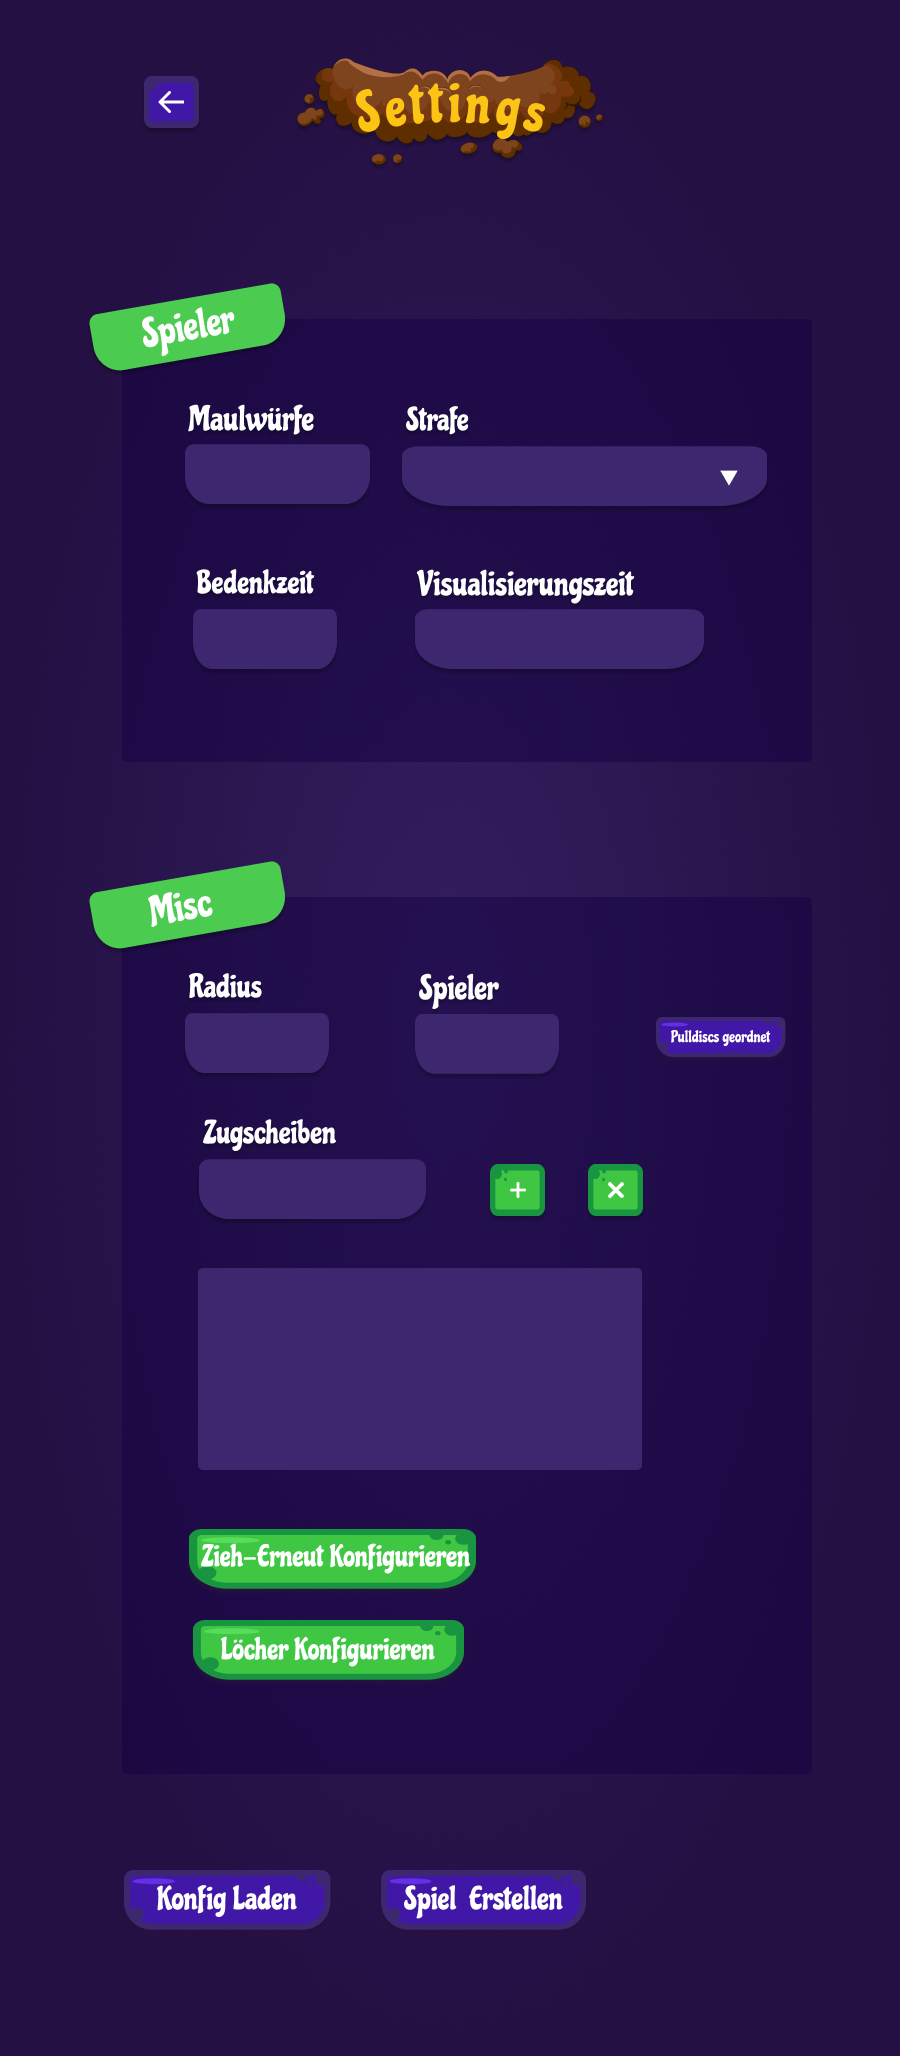
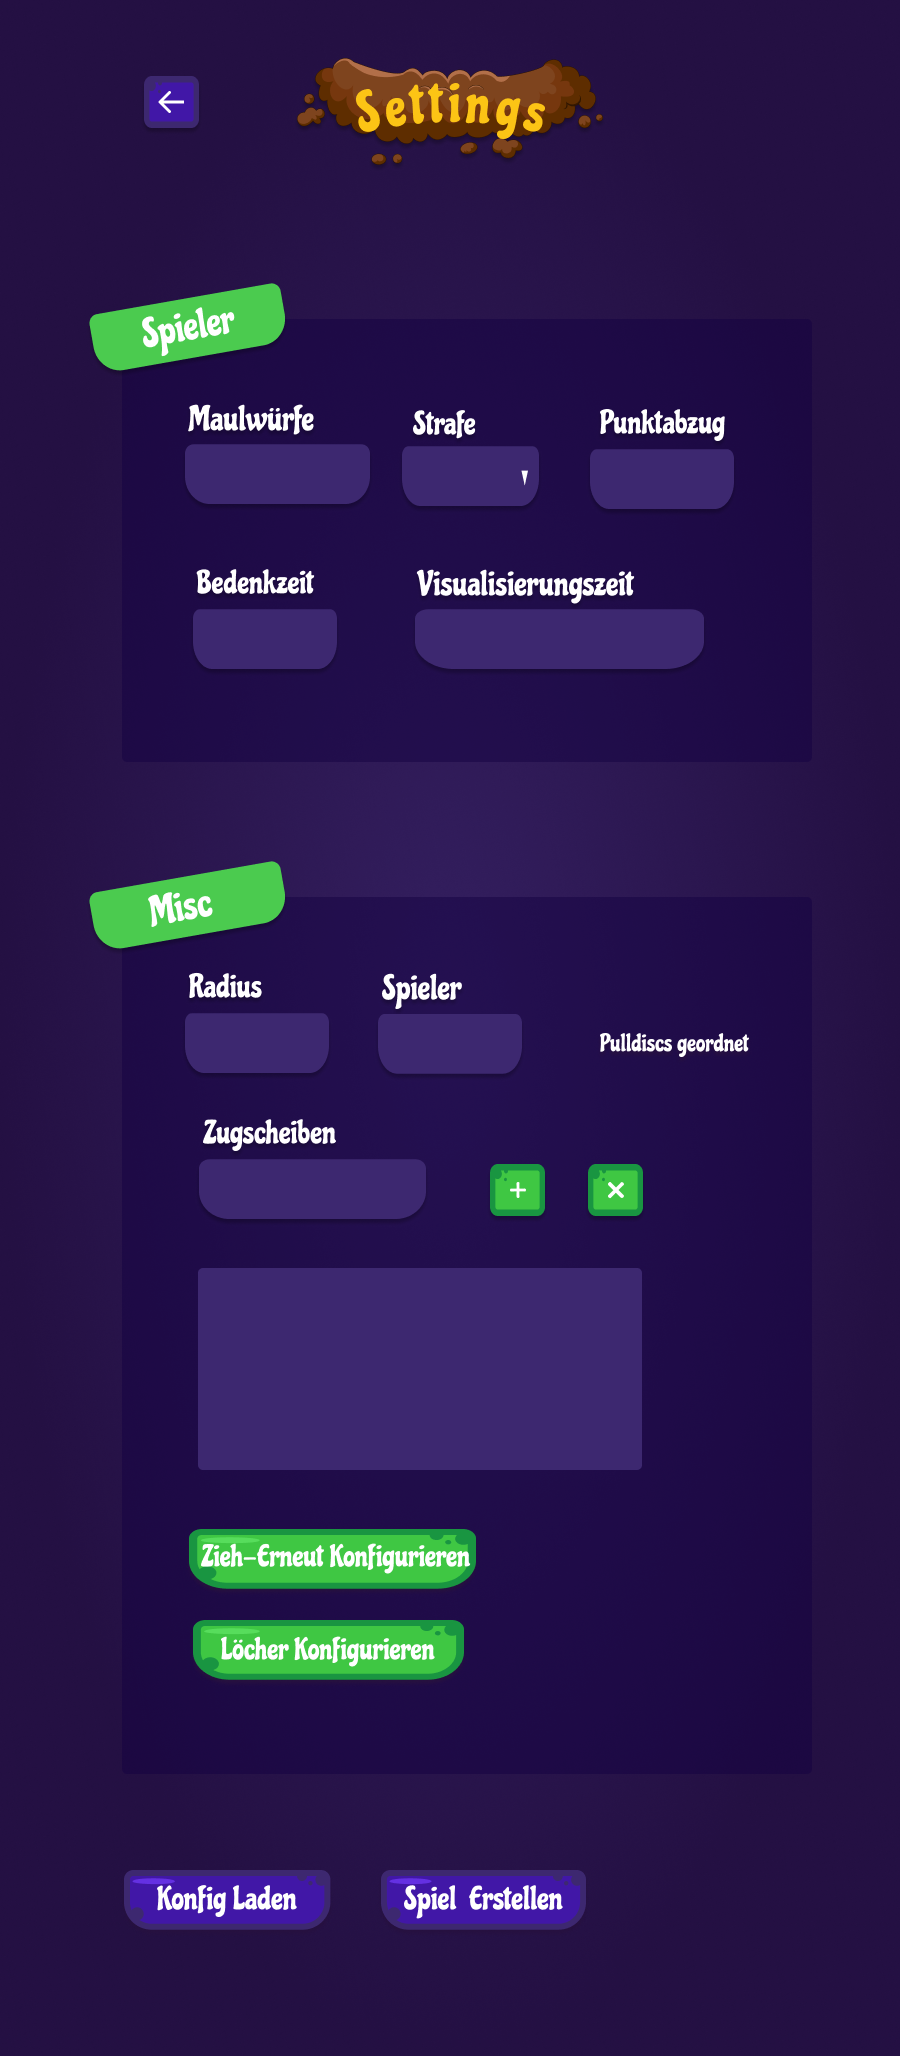
hotfix (grafiken)

diff --git a/src/main/java/de/thundergames/gameplay/ausrichter/ui/CreateGame.java b/src/main/java/de/thundergames/gameplay/ausrichter/ui/CreateGame.java
@@ -1,7 +1,7 @@
 /*
  * Copyright Notice for SwtPra10
  * Copyright (c) at ThunderGames | SwtPra10 2022
- * File created on 20.01.22, 17:51 by Carina Latest changes made by Carina on 20.01.22, 17:51 All contents of "CreateGame" are protected by copyright. The copyright law, unless expressly indicated otherwise, is
+ * File created on 20.01.22, 18:19 by Carina Latest changes made by Carina on 20.01.22, 18:19 All contents of "CreateGame" are protected by copyright. The copyright law, unless expressly indicated otherwise, is
  * at ThunderGames | SwtPra10. All rights reserved
  * Any type of duplication, distribution, rental, sale, award,
  * Public accessibility or other use
@@ -80,64 +80,13 @@ public class CreateGame implements Initializable {
     loadPrevSettings();
   }
 
-  @FXML
-  void initialize() {
-    assert addItem != null
-      : "fx:id=\"addItem\" was not injected: check your FXML file 'CreateGame.fxml'.";
-    assert back != null
-      : "fx:id=\"back\" was not injected: check your FXML file 'CreateGame.fxml'.";
-    assert configureDrawAgain != null
-      : "fx:id=\"configureDrawAgain\" was not injected: check your FXML file 'CreateGame.fxml'.";
-    assert configureHoles != null
-      : "fx:id=\"configureHoles\" was not injected: check your FXML file 'CreateGame.fxml'.";
-    assert createGame != null
-      : "fx:id=\"createGame\" was not injected: check your FXML file 'CreateGame.fxml'.";
-    assert drawCardValue != null
-      : "fx:id=\"drawCardValue\" was not injected: check your FXML file 'CreateGame.fxml'.";
-    assert drawCardValues != null
-      : "fx:id=\"drawCardValues\" was not injected: check your FXML file 'CreateGame.fxml'.";
-    assert loadConfig != null
-      : "fx:id=\"loadConfig\" was not injected: check your FXML file 'CreateGame.fxml'.";
-    assert molesAmount != null
-      : "fx:id=\"molesAmount\" was not injected: check your FXML file 'CreateGame.fxml'.";
-    assert movePenalty != null
-      : "fx:id=\"movePenalty\" was not injected: check your FXML file 'CreateGame.fxml'.";
-    assert playerAmount != null
-      : "fx:id=\"playerAmount\" was not injected: check your FXML file 'CreateGame.fxml'.";
-    assert pullDiscsOrdered != null
-      : "fx:id=\"pullDiscsOrdered\" was not injected: check your FXML file 'CreateGame.fxml'.";
-    assert radius != null
-      : "fx:id=\"radius\" was not injected: check your FXML file 'CreateGame.fxml'.";
-    assert removeAll != null
-      : "fx:id=\"removeAll\" was not injected: check your FXML file 'CreateGame.fxml'.";
-    assert thinkTime != null
-      : "fx:id=\"thinkTime\" was not injected: check your FXML file 'CreateGame.fxml'.";
-    assert visualEffects != null
-      : "fx:id=\"visualEffects\" was not injected: check your FXML file 'CreateGame.fxml'.";
-    movePenalty.getItems().addAll(Punishments.values());
-  }
-
   @Override
   public void initialize(URL location, ResourceBundle resources) {
     createGameInstance = this;
     initialize();
   }
 
-  @FXML
-  void backButtonEvent(ActionEvent event) throws Exception {
-    var primaryStage = (Stage) ((Node) event.getSource()).getScene().getWindow();
-    punishmentPrev = null;
-    maxPlayersPrev = null;
-    molesAmountPrev = null;
-    thinkTimePrev = null;
-    visualEffectsPrev = null;
-    radiusPrev = null;
-    drawCardValuesList.clear();
-    floors.clear();
-    savePrevSettings();
-    MoleGames.getMoleGames().getGui().start(primaryStage);
-    MoleGames.getMoleGames().getGui().updateTable();
-  }
+  private static String deductedPointsPrev;
 
   /**
    * @param event
@@ -350,12 +299,50 @@ public class CreateGame implements Initializable {
     return floors.get(floors.size() - 1).getHoles().size() >= 1;
   }
 
+  @FXML
+  private TextField deductedPoints;
+
+  public static String getDeductedPointsPrev() {
+    return deductedPointsPrev;
+  }
+
+  public static void setDeductedPointsPrev(String deductedPointsPrev) {
+    CreateGame.deductedPointsPrev = deductedPointsPrev;
+  }
+
+  @FXML
+  void backButtonEvent(ActionEvent event) throws Exception {
+    var primaryStage = (Stage) ((Node) event.getSource()).getScene().getWindow();
+    punishmentPrev = null;
+    maxPlayersPrev = null;
+    molesAmountPrev = null;
+    deductedPointsPrev = null;
+    thinkTimePrev = null;
+    visualEffectsPrev = null;
+    radiusPrev = null;
+    drawCardValuesList.clear();
+    floors.clear();
+    savePrevSettings();
+    MoleGames.getMoleGames().getGui().start(primaryStage);
+    MoleGames.getMoleGames().getGui().updateTable();
+  }
+
+  private static CreateGame createGameInstance;
+  private static String molesAmountPrev;
+  private static String maxPlayersPrev;
+  private static String punishmentPrev;
+  private static String radiusPrev;
+  private static String thinkTimePrev;
+  private static boolean pullDiscsOrderedPrev;
+  private static String visualEffectsPrev;
+
   /**
    * @author Carina, Jana, Eva
    * @use loads prev configs.
    */
   public void loadPrevSettings() {
     molesAmount.setText(molesAmountPrev);
+    deductedPoints.setText(deductedPointsPrev);
     playerAmount.setText(maxPlayersPrev);
     radius.setText(radiusPrev);
     thinkTime.setText(thinkTimePrev);
@@ -372,32 +359,6 @@ public class CreateGame implements Initializable {
       movePenalty.setValue(Punishments.valueOf(punishmentPrev));
     }
   }
-
-  /**
-   * @author Carina, Jana, Eva
-   * @use saves prev configs.
-   */
-  private void savePrevSettings() {
-    molesAmountPrev = molesAmount.getText();
-    maxPlayersPrev = playerAmount.getText();
-    radiusPrev = radius.getText();
-    thinkTimePrev = thinkTime.getText();
-    visualEffectsPrev = visualEffects.getText();
-    pullDiscsOrderedPrev = pullDiscsOrdered.isSelected();
-    try {
-      punishmentPrev = movePenalty.getSelectionModel().getSelectedItem().getName();
-    } catch (Exception ignored) {
-    }
-  }
-
-  private static CreateGame createGameInstance;
-  private static String molesAmountPrev;
-  private static String maxPlayersPrev;
-  private static String punishmentPrev;
-  private static String radiusPrev;
-  private static String thinkTimePrev;
-  private static boolean pullDiscsOrderedPrev;
-  private static String visualEffectsPrev;
   private static ArrayList<Integer> drawCardValuesList = new ArrayList<>();
   @FXML
   private Button configureDrawAgain;
@@ -438,6 +399,80 @@ public class CreateGame implements Initializable {
   private CheckBox pullDiscsOrdered;
   @FXML
   private TextField visualEffects;
+
+  /**
+   * @author Carina, Jana, Eva
+   * @use saves prev configs.
+   */
+  private void savePrevSettings() {
+    molesAmountPrev = molesAmount.getText();
+    deductedPointsPrev = deductedPoints.getText();
+    maxPlayersPrev = playerAmount.getText();
+    radiusPrev = radius.getText();
+    thinkTimePrev = thinkTime.getText();
+    visualEffectsPrev = visualEffects.getText();
+    pullDiscsOrderedPrev = pullDiscsOrdered.isSelected();
+    try {
+      punishmentPrev = movePenalty.getSelectionModel().getSelectedItem().getName();
+    } catch (Exception ignored) {
+    }
+  }
+
+  /**
+   * @param event
+   * @author Carina
+   * @use adds a number to the draw card values
+   */
+  @FXML
+  void addItemButtonEvent(@NotNull final ActionEvent event) {
+    if (drawCardValue.getText() != null && !"".equalsIgnoreCase(drawCardValue.getText())) {
+      drawCardValuesList.add(Integer.valueOf(drawCardValue.getText()));
+      if (drawCardValues.getText() == null || "".equalsIgnoreCase(drawCardValues.getText())) {
+        drawCardValues.setText(drawCardValue.getText());
+      } else {
+        drawCardValues.setText(drawCardValues.getText() + "\n" + drawCardValue.getText());
+      }
+    }
+    drawCardValue.clear();
+  }
+
+  @FXML
+  void initialize() {
+    assert addItem != null
+      : "fx:id=\"addItem\" was not injected: check your FXML file 'CreateGame.fxml'.";
+    assert back != null
+      : "fx:id=\"back\" was not injected: check your FXML file 'CreateGame.fxml'.";
+    assert configureDrawAgain != null
+      : "fx:id=\"configureDrawAgain\" was not injected: check your FXML file 'CreateGame.fxml'.";
+    assert configureHoles != null
+      : "fx:id=\"configureHoles\" was not injected: check your FXML file 'CreateGame.fxml'.";
+    assert createGame != null
+      : "fx:id=\"createGame\" was not injected: check your FXML file 'CreateGame.fxml'.";
+    assert drawCardValue != null
+      : "fx:id=\"drawCardValue\" was not injected: check your FXML file 'CreateGame.fxml'.";
+    assert drawCardValues != null
+      : "fx:id=\"drawCardValues\" was not injected: check your FXML file 'CreateGame.fxml'.";
+    assert loadConfig != null
+      : "fx:id=\"loadConfig\" was not injected: check your FXML file 'CreateGame.fxml'.";
+    assert molesAmount != null
+      : "fx:id=\"molesAmount\" was not injected: check your FXML file 'CreateGame.fxml'.";
+    assert movePenalty != null
+      : "fx:id=\"movePenalty\" was not injected: check your FXML file 'CreateGame.fxml'.";
+    assert playerAmount != null
+      : "fx:id=\"playerAmount\" was not injected: check your FXML file 'CreateGame.fxml'.";
+    assert pullDiscsOrdered != null
+      : "fx:id=\"pullDiscsOrdered\" was not injected: check your FXML file 'CreateGame.fxml'.";
+    assert radius != null
+      : "fx:id=\"radius\" was not injected: check your FXML file 'CreateGame.fxml'.";
+    assert deductedPoints != null : "fx:id=\"deductedPoints\" was not injected: check your FXML file 'CreateGame.fxml'.";
+    assert removeAll != null
+      : "fx:id=\"removeAll\" was not injected: check your FXML file 'CreateGame.fxml'.";
+    assert thinkTime != null
+      : "fx:id=\"thinkTime\" was not injected: check your FXML file 'CreateGame.fxml'.";
+    assert visualEffects != null
+      : "fx:id=\"visualEffects\" was not injected: check your FXML file 'CreateGame.fxml'.";
+    movePenalty.getItems().addAll(Punishments.values());
+  }
 
   public static String getMolesAmountPrev() {
     return molesAmountPrev;
@@ -517,18 +552,5 @@ public class CreateGame implements Initializable {
 
   public static void setFloors(ArrayList<Floor> floors) {
     CreateGame.floors = floors;
-  }
-
-  @FXML
-  void addItemButtonEvent(@NotNull final ActionEvent event) {
-    if (drawCardValue.getText() != null && !"".equalsIgnoreCase(drawCardValue.getText())) {
-      drawCardValuesList.add(Integer.valueOf(drawCardValue.getText()));
-      if (drawCardValues.getText() == null || "".equalsIgnoreCase(drawCardValues.getText())) {
-        drawCardValues.setText(drawCardValue.getText());
-      } else {
-        drawCardValues.setText(drawCardValues.getText() + "\n" + drawCardValue.getText());
-      }
-    }
-    drawCardValue.clear();
   }
 }

diff --git a/src/main/java/de/thundergames/gameplay/ausrichter/ui/SettingsImport.java b/src/main/java/de/thundergames/gameplay/ausrichter/ui/SettingsImport.java
@@ -1,7 +1,7 @@
 /*
  * Copyright Notice for SwtPra10
  * Copyright (c) at ThunderGames | SwtPra10 2022
- * File created on 20.01.22, 17:11 by Carina Latest changes made by Carina on 20.01.22, 17:10 All contents of "SettingsImport" are protected by copyright. The copyright law, unless expressly indicated otherwise, is
+ * File created on 20.01.22, 18:19 by Carina Latest changes made by Carina on 20.01.22, 18:12 All contents of "SettingsImport" are protected by copyright. The copyright law, unless expressly indicated otherwise, is
  * at ThunderGames | SwtPra10. All rights reserved
  * Any type of duplication, distribution, rental, sale, award,
  * Public accessibility or other use
@@ -119,6 +119,8 @@ public class SettingsImport {
         new Gson().fromJson(object.get("radius"), String.class));
       CreateGame.setMolesAmountPrev(
         new Gson().fromJson(object.get("numberOfMoles"), String.class));
+      CreateGame.setDeductedPointsPrev(
+        new Gson().fromJson(object.get("deductedPoints"), String.class));
       CreateGame.setPullDiscsOrderedPrev(
         new Gson().fromJson(object.get("pullDiscsOrdered"), Boolean.class));
       CreateGame.setThinkTimePrev(
@@ -158,6 +160,11 @@ public class SettingsImport {
       CreateGame.getMolesAmountPrev() != null
         ? Integer.parseInt(CreateGame.getMolesAmountPrev())
         : 4);
+    json.addProperty(
+      "deductedPoints",
+      CreateGame.getDeductedPointsPrev() != null
+        ? Integer.parseInt(CreateGame.getDeductedPointsPrev())
+        : 10);
     json.add("levels", JsonParser.parseString(new Gson().toJson(CreateGame.getLevel())));
     json.addProperty("pullDiscsOrdered", CreateGame.isPullDiscsOrderedPrev());
     json.add("pullDiscs", JsonParser.parseString(new Gson().toJson(CreateGame.getDrawCardValuesList())));
@@ -177,7 +184,6 @@ public class SettingsImport {
     // TODO: grafik und system implementieren  json.addProperty("deductedPoints",
     // Integer.parseInt(CreateGame.getCreateGameInstance().getDeductedPoints()));
     new GameConfiguration().saveSettings(json);
-    Dialog.show("Konfiguration gespeichert!", "Erfolg!", Dialog.DialogType.INFO);
   }
 
   @FXML

diff --git a/src/main/java/de/thundergames/filehandling/GameConfiguration.java b/src/main/java/de/thundergames/filehandling/GameConfiguration.java
@@ -1,7 +1,7 @@
 /*
  * Copyright Notice for SwtPra10
  * Copyright (c) at ThunderGames | SwtPra10 2022
- * File created on 13.01.22, 16:58 by Carina Latest changes made by Carina on 13.01.22, 16:58 All contents of "GameConfiguration" are protected by copyright. The copyright law, unless expressly indicated otherwise, is
+ * File created on 20.01.22, 18:19 by Carina Latest changes made by Carina on 20.01.22, 17:57 All contents of "GameConfiguration" are protected by copyright. The copyright law, unless expressly indicated otherwise, is
  * at ThunderGames | SwtPra10. All rights reserved
  * Any type of duplication, distribution, rental, sale, award,
  * Public accessibility or other use
@@ -12,6 +12,7 @@ package de.thundergames.filehandling;
 import com.google.gson.Gson;
 import com.google.gson.JsonObject;
 import de.thundergames.MoleGames;
+import de.thundergames.playmechanics.util.Dialog;
 import de.thundergames.playmechanics.util.Settings;
 import lombok.Data;
 import org.jetbrains.annotations.NotNull;
@@ -42,7 +43,7 @@ public class GameConfiguration {
     writer.close();
     if (MoleGames.getMoleGames().getServer().isDebug()) {
       System.out.println("Config saved");
-      //TODO: hier ein pane einfügen lassen
+      Dialog.show("Konfiguration gespeichert!", "Erfolg!", Dialog.DialogType.INFO);
     }
   }
 

diff --git a/src/main/java/de/thundergames/gameplay/ausrichter/ui/MainGUI.java b/src/main/java/de/thundergames/gameplay/ausrichter/ui/MainGUI.java
@@ -1,7 +1,7 @@
 /*
  * Copyright Notice for SwtPra10
  * Copyright (c) at ThunderGames | SwtPra10 2022
- * File created on 20.01.22, 17:11 by Carina Latest changes made by Carina on 20.01.22, 17:10 All contents of "MainGUI" are protected by copyright. The copyright law, unless expressly indicated otherwise, is
+ * File created on 20.01.22, 18:19 by Carina Latest changes made by Carina on 20.01.22, 18:08 All contents of "MainGUI" are protected by copyright. The copyright law, unless expressly indicated otherwise, is
  * at ThunderGames | SwtPra10. All rights reserved
  * Any type of duplication, distribution, rental, sale, award,
  * Public accessibility or other use
@@ -100,9 +100,10 @@ public class MainGUI extends Application implements Initializable {
       CreateGame.getFloors().clear();
       CreateGame.setPullDiscsOrderedPrev(false);
       CreateGame.setRadiusPrev(null);
-      CreateGame.getDrawCardValuesList().clear();
+      CreateGame.setDeductedPointsPrev(null);
       CreateGame.setMaxPlayersPrev(null);
       CreateGame.setMolesAmountPrev(null);
+      CreateGame.getDrawCardValuesList().clear();
     }
     var primaryStage = (Stage) ((Node) event.getSource()).getScene().getWindow();
     new CreateGame().start(primaryStage);

diff --git a/src/main/java/de/thundergames/playmechanics/tournament/Tournament.java b/src/main/java/de/thundergames/playmechanics/tournament/Tournament.java
@@ -1,7 +1,7 @@
 /*
  * Copyright Notice for SwtPra10
  * Copyright (c) at ThunderGames | SwtPra10 2022
- * File created on 17.01.22, 19:10 by Carina Latest changes made by Carina on 17.01.22, 19:10 All contents of "Tournament" are protected by copyright. The copyright law, unless expressly indicated otherwise, is
+ * File created on 20.01.22, 18:19 by Carina Latest changes made by Carina on 20.01.22, 17:59 All contents of "Tournament" are protected by copyright. The copyright law, unless expressly indicated otherwise, is
  * at ThunderGames | SwtPra10. All rights reserved
  * Any type of duplication, distribution, rental, sale, award,
  * Public accessibility or other use
@@ -25,7 +25,7 @@ import java.util.Objects;
 @Getter
 @Setter
 public class Tournament {
-  //TODO: ALles machen
+  //TODO: Alles machen
 
   private final transient HashSet<ServerThread> spectators = new HashSet<>();
   private final transient HashSet<ServerThread> players = new HashSet<>();
